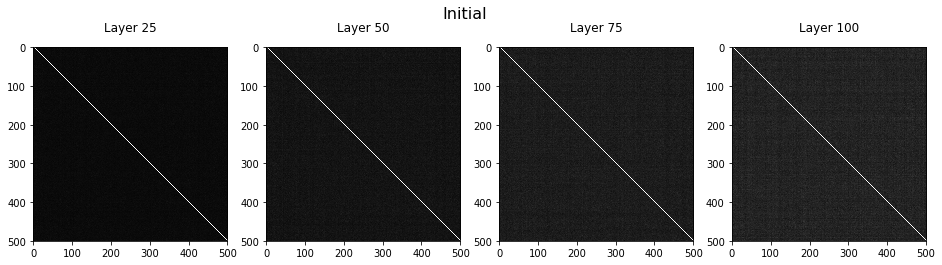
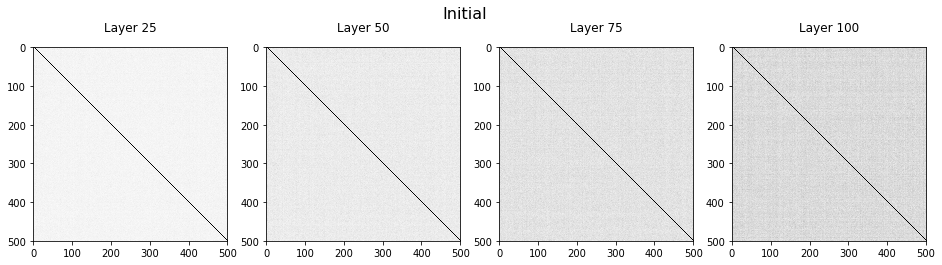
feat: Add sec5_sim2 with reversed colors.

diff --git a/theory.tex b/theory.tex
@@ -196,7 +196,7 @@ This shows that the vanishing node phenomenon becomes evident with respect to th
 In Section \ref{initial}, we showed that the correlation of a network will increase as the depth $L$ increases; in this section, we exploit the manner in which the back-propagation training process will influence the network correlation by the following experiments. 
 %that the correlation of nodes are intensified during a back-propagation training process.
 
-%First, the same architecture defined in \eqref{network_eqn} with $L=100$, $N=500$, tanh activation and scaled Gaussian initialization  are used.  50,000 training images of MNIST dataset (\cite{mnist}) are used with the batch size 100 to with  stochastic gradient descent (SGD) optimization and the batch size set to 100.
+%First, 
 
 %%% FIGURE %%%
 \input{img/Sec4/sim3/sec4sim3.tex}
@@ -223,13 +223,19 @@ capability as VNI $R_{sq}$ approaches 1.
 Further discussion is provided in Section \ref{experiments} to investigate the impact of VNI by various
 training parameters.
 
-% In Figure \ref{fig:sec5_sim2}, we present the pairwise averaged squared correlation coefficients
-% $\rho_{ij}^2$ via its color. The brighter pixels represent higher correlations.
-% Note that in Figure \ref{fig:sec5_sim2_a}, the color of layer 100 is dark because the network width
-% $N=500$ is large, relative to the network depth $L=100$.
+In Figure \ref{fig:sec5_sim2}, we present the pairwise averaged squared correlation coefficients
+$\rho_{ij}^2$ via its color.
+The architecture is defined with $L=100$, $N=500$, tanh activation and scaled Gaussian initialization.
+Random samples from the distribution $\mathbf{x}_0\sim Gaussian(\mu_x=0, \sigma^2_x=0.1)$
+with batch size 1000 are used as the input data, and the same distribution is used as the output gradients. 
+The network is trained by SGD optimization with learning rate $=10^{-2}$.
+The darker pixels represent higher correlations.
+Note that in Figure \ref{fig:sec5_sim2_a}, the color of layer 100 is bright because the network width
+$N=500$ is large relative to the network depth $L=100$.
 
 %%% FIGURE %%%
 \input{img/Sec5/sim1/sec5sim1.tex}
 
-%%% FIGURE %%% \input{img/Sec5/sim2/sec5sim2.tex}
+%%% FIGURE %%%
+\input{img/Sec5/sim2/sec5sim2.tex}
 
